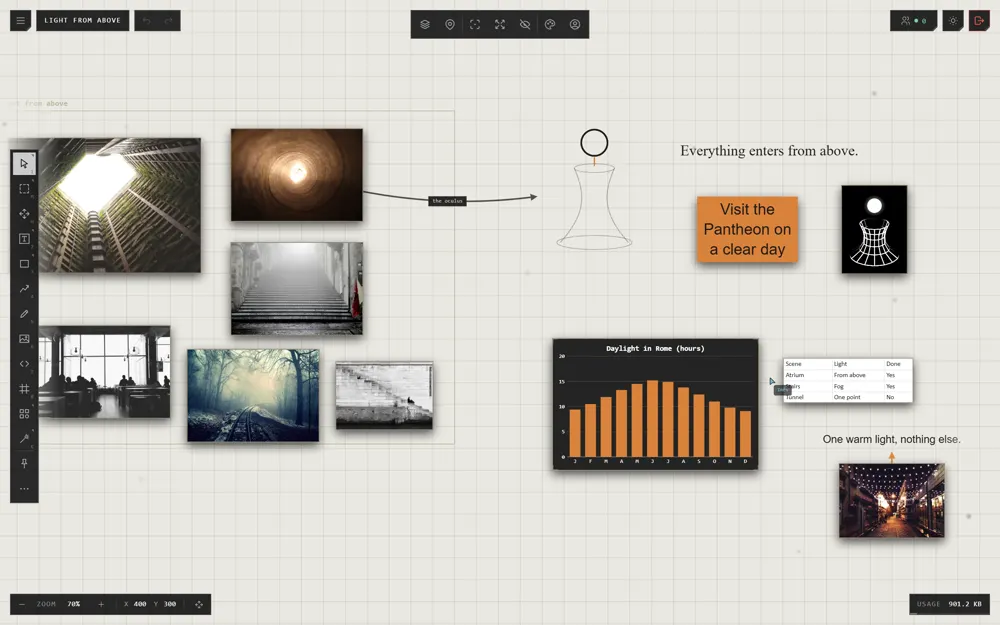
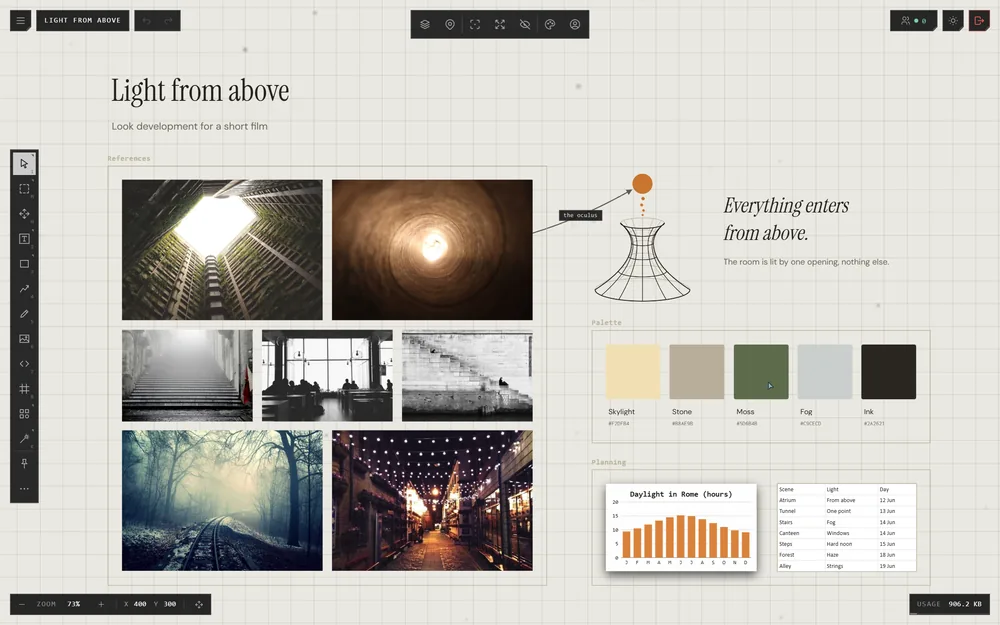
Landing page: a place for the film; the example atrium in the app's own themes
- The film gets the second section: a bracketed 16:9 window that says it is
  in production until FILM_SRC is set, then plays it.
- The example atrium is rebuilt as look development for a short film and
  photographed in Markerboard (light page) and Abyss (dark page). Close-ups
  are staged with their subject alone; the alt text is new in all 11 languages.
- Sections take their refs by name, so adding one cannot shift the others.

diff --git a/src/components/LandingPage.tsx b/src/components/LandingPage.tsx
@@ -148,6 +148,12 @@ const TRACE_CELLS: { id: string; span: string; picture?: boolean; video?: boolea
   { id: 'links', span: '' },
 ]
 
+// The film about the place, once it's made: where it's served from (any https
+// address: public/_headers allows media from one) and the still shown before
+// it plays. Until then, its window says it's on its way.
+const FILM_SRC: string = ''
+const FILM_POSTER: string = ''
+
 const TOOLS = ['move', 'arrange', 'connect', 'together', 'style', 'keep'] as const
 
 // The sticky bar's height (h-14). Both the jump and the scroll-spy measure
@@ -378,11 +384,12 @@ function TopNav({ items, activeSection, onJump, onDonate }: {
 }
 
 // The running order, and the order the page is written in. Index is identity
-// here: it ties an entry to its ref in sectionRefs, so these must move
-// together. Anything jumping to a section by name goes through sectionIndex().
+// here: it ties an entry to its ref in sectionRefs, so each section takes its
+// ref by name, through sectionIndex(), as does anything jumping to one.
 // `desktop` is the one a route names (/desktop): its id stays.
 const sections = [
   { id: 'hero', title: 'The Digital Atrium' },
+  { id: 'film', title: 'The film' },
   { id: 'inside', title: 'Inside an atrium' },
   { id: 'traces', title: 'Traces' },
   { id: 'tools', title: 'What you can do' },
@@ -605,7 +612,7 @@ export default function LandingPage({ onGetStarted, isAuthenticated, section }: 
       <main id="landing-main" tabIndex={-1} className="outline-none">
         {/* The hall: the portal, lit, hanging over the name. */}
         <section
-          ref={el => { sectionRefs.current[0] = el }}
+          ref={el => { sectionRefs.current[sectionIndex('hero')] = el }}
           className="relative flex flex-col items-center px-5 sm:px-10 lg:px-16 pb-14 overflow-hidden"
           style={{ minHeight: 'calc(100dvh - 3.5rem)' }}
         >
@@ -662,8 +669,29 @@ export default function LandingPage({ onGetStarted, isAuthenticated, section }: 
             the rest. */}
         <TraceTicker />
 
+        {/* The film: the window it plays in, waiting for it until it's made. */}
+        <section ref={el => { sectionRefs.current[sectionIndex('film')] = el }} className={sectionClass}>
+          <div className="max-w-[1300px] mx-auto" data-reveal>
+            <SectionTitle>{t('landing.film.title')}</SectionTitle>
+            <div className="relative">
+              <Brackets inset="-0.75rem" />
+              <div className="landing-window relative aspect-video border border-nier-border/30 overflow-hidden">
+                {FILM_SRC ? (
+                  <video src={FILM_SRC} poster={FILM_POSTER || undefined} controls preload="none" playsInline aria-label={t('landing.film.title')} className="absolute inset-0 w-full h-full bg-black" />
+                ) : (
+                  <div className="absolute inset-0 flex flex-col items-center justify-center gap-6 sm:gap-8 px-6 text-center">
+                    <span aria-hidden="true" className="landing-orb w-4 h-4 sm:w-5 sm:h-5 rounded-full" />
+                    <p className="text-[11px] sm:text-xs tracking-[0.35em] uppercase text-nier-strong">{t('landing.film.soon')}</p>
+                    <p className="max-w-[30rem] text-sm sm:text-base font-light leading-relaxed text-nier-bg/75 text-pretty">{t('landing.film.body')}</p>
+                  </div>
+                )}
+              </div>
+            </div>
+          </div>
+        </section>
+
         {/* Inside: an atrium as it is, photographed in the app. */}
-        <section ref={el => { sectionRefs.current[1] = el }} className={sectionClass}>
+        <section ref={el => { sectionRefs.current[sectionIndex('inside')] = el }} className={sectionClass}>
           <div className="max-w-[1300px] mx-auto" data-reveal>
             <SectionTitle>{t('landing.inside.title')}</SectionTitle>
             <p className="text-nier-bg/80 text-lg md:text-xl font-light leading-relaxed max-w-[40rem] mb-12 md:mb-16 text-pretty">{t('landing.inside.body')}</p>
@@ -687,7 +715,7 @@ export default function LandingPage({ onGetStarted, isAuthenticated, section }: 
         </section>
 
         {/* What can be brought in. */}
-        <section ref={el => { sectionRefs.current[2] = el }} className={sectionClass}>
+        <section ref={el => { sectionRefs.current[sectionIndex('traces')] = el }} className={sectionClass}>
           <div className="max-w-[1300px] mx-auto" data-reveal>
             <SectionTitle>{t('landing.traces.title')}</SectionTitle>
             <div className="landing-bento grid grid-cols-1 sm:grid-cols-2 lg:grid-cols-4 gap-px">
@@ -715,7 +743,7 @@ export default function LandingPage({ onGetStarted, isAuthenticated, section }: 
         </section>
 
         {/* What can be done there, and the keys for it. */}
-        <section ref={el => { sectionRefs.current[3] = el }} className={sectionClass}>
+        <section ref={el => { sectionRefs.current[sectionIndex('tools')] = el }} className={sectionClass}>
           <div className="max-w-[1300px] mx-auto grid lg:grid-cols-[minmax(0,5fr)_minmax(0,7fr)] gap-12 lg:gap-20" data-reveal>
             <div className="lg:sticky lg:top-28 self-start">
               <SectionTitle>{t('landing.tools.title')}</SectionTitle>
@@ -743,7 +771,7 @@ export default function LandingPage({ onGetStarted, isAuthenticated, section }: 
         {/* Two ways in: the web, and your computer. The desktop app has no
             need to be told about itself. */}
         {!isDesktop && (
-          <section ref={el => { sectionRefs.current[4] = el }} className={sectionClass}>
+          <section ref={el => { sectionRefs.current[sectionIndex('desktop')] = el }} className={sectionClass}>
             <div className="max-w-[1300px] mx-auto" data-reveal>
               <SectionTitle>{t('landing.ways.title')}</SectionTitle>
               <div className="landing-bento grid md:grid-cols-2 gap-px">
@@ -770,7 +798,7 @@ export default function LandingPage({ onGetStarted, isAuthenticated, section }: 
         )}
 
         {/* Who made it. */}
-        <section ref={el => { sectionRefs.current[5] = el }} className={sectionClass}>
+        <section ref={el => { sectionRefs.current[sectionIndex('creator')] = el }} className={sectionClass}>
           <div className="max-w-[1150px] mx-auto grid md:grid-cols-[minmax(0,5fr)_minmax(0,7fr)] gap-12 md:gap-16 items-center" data-reveal>
             <figure className="relative max-w-[440px] w-full mx-auto md:mx-0">
               <Brackets />
@@ -799,7 +827,7 @@ export default function LandingPage({ onGetStarted, isAuthenticated, section }: 
         </section>
 
         {/* What keeps it going. */}
-        <section ref={el => { sectionRefs.current[6] = el }} className={sectionClass}>
+        <section ref={el => { sectionRefs.current[sectionIndex('support')] = el }} className={sectionClass}>
           <div className="max-w-[1000px] mx-auto" data-reveal>
             <SectionTitle center>{t('landing.support.title')}</SectionTitle>
             <div className="grid md:grid-cols-2 gap-10 md:gap-14 items-center">

diff --git a/src/locales/ru.ts b/src/locales/ru.ts
@@ -1406,9 +1406,13 @@ const ru: Catalogue = {
   'landing.nav.inside': "Внутри",
   'landing.nav.traces': "Traces",
   'landing.nav.tools': "Что можно делать",
+  'landing.nav.film': "Фильм",
+  'landing.film.title': "Фильм",
+  'landing.film.soon': "В производстве",
+  'landing.film.body': "Мы снимаем короткий фильм о Digital Atrium. Когда он будет готов, его можно будет посмотреть здесь.",
   'landing.inside.title': "Внутри атриума",
   'landing.inside.body': "Всё, что вы приносите, становится trace в любом месте сетки. Связывайте их, группируйте, и комната растёт вместе с вашими идеями.",
-  'landing.inside.alt': "Атриум в приложении: рамка с фотографиями о свете, набросок, заметки, играющее видео, график светового дня и небольшая таблица, связанные нитями, а рядом с графиком курсор другого человека.",
+  'landing.inside.alt': "Атриум в приложении, оформленный как разработка визуального стиля короткометражного фильма: рамка с фотографиями о свете, набросок шара над каркасным сосудом, связанный с ними нитью, заметка, цветовая палитра, график светового дня и список сцен, а на палитре курсор другого человека.",
   'landing.traces.title': "Приносите что угодно",
   'landing.traces.pictures': "Изображения",
   'landing.traces.picturesDesc': "С компьютера или прямо из интернета. GIF продолжают двигаться.",

diff --git a/src/locales/ja.ts b/src/locales/ja.ts
@@ -1482,9 +1482,13 @@ const ja: Catalogue = {
   'landing.nav.inside': "中へ",
   'landing.nav.traces': "トレース",
   'landing.nav.tools': "できること",
+  'landing.nav.film': "映像",
+  'landing.film.title': "映像",
+  'landing.film.soon': "制作中",
+  'landing.film.body': "Digital Atrium の短編映像を制作しています。完成したら、ここで再生されます。",
   'landing.inside.title': "アトリウムの中",
   'landing.inside.body': "持ち込んだものはすべてトレースになり、グリッドのどこにでも置けます。つないで、まとめれば、部屋はあなたのアイデアとともに広がります。",
-  'landing.inside.alt': "アプリ内のアトリウム：光をテーマにした写真のフレーム、スケッチ、メモ、再生中の動画、日照時間のグラフと小さな表が糸でつながり、グラフのそばに別の人のカーソルがあります。",
+  'landing.inside.alt': "アプリ内のアトリウム。短編映画のルック開発として構成されています：光をテーマにした写真のフレーム、糸で写真とつながったワイヤーフレームの器と光球のスケッチ、メモ、カラーパレット、日照時間のグラフ、撮影リスト。パレットの上には別の人のカーソルがあります。",
   'landing.traces.title': "何でも持ち込める",
   'landing.traces.pictures': "画像",
   'landing.traces.picturesDesc': "パソコンから、またはウェブから直接。GIF は動き続けます。",

diff --git a/src/locales/fr.ts b/src/locales/fr.ts
@@ -1402,9 +1402,13 @@ const fr: Catalogue = {
   'landing.nav.inside': "Dedans",
   'landing.nav.traces': "Traces",
   'landing.nav.tools': "Ce que vous pouvez faire",
+  'landing.nav.film': "Le film",
+  'landing.film.title': "Le film",
+  'landing.film.soon': "En production",
+  'landing.film.body': "Un court métrage sur le Digital Atrium est en cours de réalisation. Une fois terminé, il sera diffusé ici.",
   'landing.inside.title': "Dans un atrium",
   'landing.inside.body': "Tout ce que vous apportez devient une trace, n’importe où sur la grille. Reliez-les, groupez-les, et la salle grandit avec vos idées.",
-  'landing.inside.alt': "Un atrium dans l’app : un cadre de photographies sur la lumière, un croquis, des notes, une vidéo en lecture, un graphique des heures de jour et un petit tableau, reliés par des fils, avec le curseur d’une autre personne près du graphique.",
+  'landing.inside.alt': "Un atrium dans l’app, organisé comme la recherche visuelle d’un court métrage : un cadre de photographies sur la lumière, le croquis d’un orbe au-dessus d’un vase en fil de fer relié à elles par un fil, une note, une palette de couleurs, un graphique des heures de jour et une liste de plans, avec le curseur d’une autre personne sur la palette.",
   'landing.traces.title': "Apportez n’importe quoi",
   'landing.traces.pictures': "Images",
   'landing.traces.picturesDesc': "Depuis votre ordinateur ou directement du web. Les GIF continuent de bouger.",

diff --git a/src/locales/ko.ts b/src/locales/ko.ts
@@ -1486,9 +1486,13 @@ const ko: Catalogue = {
   'landing.nav.inside': "안으로",
   'landing.nav.traces': "트레이스",
   'landing.nav.tools': "할 수 있는 것",
+  'landing.nav.film': "영상",
+  'landing.film.title': "영상",
+  'landing.film.soon': "제작 중",
+  'landing.film.body': "Digital Atrium에 관한 단편 영상을 만들고 있습니다. 완성되면 여기에서 재생됩니다.",
   'landing.inside.title': "아트리움 안",
   'landing.inside.body': "가져온 것은 모두 트레이스가 되어 격자 어디에나 놓입니다. 연결하고 묶으면, 방은 당신의 생각과 함께 자랍니다.",
-  'landing.inside.alt': "앱 속의 아트리움: 빛을 주제로 한 사진 프레임, 스케치, 메모, 재생 중인 영상, 일조 시간 차트와 작은 표가 실로 이어져 있고, 차트 옆에 다른 사람의 커서가 있습니다.",
+  'landing.inside.alt': "앱 속의 아트리움, 단편 영화의 룩 개발 보드로 꾸며져 있습니다: 빛을 주제로 한 사진 프레임, 실로 사진과 이어진 와이어프레임 그릇과 구체의 스케치, 메모, 색상 팔레트, 일조 시간 차트와 촬영 목록이 있고, 팔레트 위에 다른 사람의 커서가 있습니다.",
   'landing.traces.title': "무엇이든 가져오세요",
   'landing.traces.pictures': "이미지",
   'landing.traces.picturesDesc': "컴퓨터에서, 또는 웹에서 바로. GIF는 계속 움직여요.",

diff --git a/src/locales/de.ts b/src/locales/de.ts
@@ -1403,9 +1403,13 @@ const de: Catalogue = {
   'landing.nav.inside': "Innen",
   'landing.nav.traces': "Traces",
   'landing.nav.tools': "Was du tun kannst",
+  'landing.nav.film': "Der Film",
+  'landing.film.title': "Der Film",
+  'landing.film.soon': "In Produktion",
+  'landing.film.body': "Ein Kurzfilm über das Digital Atrium entsteht gerade. Sobald er fertig ist, läuft er hier.",
   'landing.inside.title': "In einem Atrium",
   'landing.inside.body': "Alles, was du hineinbringst, wird zu einem Trace, irgendwo auf dem Raster. Verbinde sie, gruppiere sie, und der Raum wächst mit deinen Ideen.",
-  'landing.inside.alt': "Ein Atrium in der App: ein Rahmen mit Fotos über Licht, eine Skizze, Notizen, ein laufendes Video, ein Diagramm der Tageslichtstunden und eine kleine Tabelle, verbunden durch Fäden, daneben der Cursor einer anderen Person.",
+  'landing.inside.alt': "Ein Atrium in der App, angelegt als Look-Entwicklung für einen Kurzfilm: ein Rahmen mit Fotos über Licht, die Skizze einer Kugel über einem Drahtgitter-Gefäß, durch einen Faden mit ihnen verbunden, eine Notiz, eine Farbpalette, ein Diagramm der Tageslichtstunden und eine Drehliste, dazu der Cursor einer anderen Person auf der Palette.",
   'landing.traces.title': "Bring alles mit",
   'landing.traces.pictures': "Bilder",
   'landing.traces.picturesDesc': "Von deinem Computer oder direkt aus dem Web. GIFs bewegen sich weiter.",

diff --git a/src/locales/es.ts b/src/locales/es.ts
@@ -1400,9 +1400,13 @@ const es: Catalogue = {
   'landing.nav.inside': "Dentro",
   'landing.nav.traces': "Traces",
   'landing.nav.tools': "Qué puedes hacer",
+  'landing.nav.film': "La película",
+  'landing.film.title': "La película",
+  'landing.film.soon': "En producción",
+  'landing.film.body': "Se está rodando un cortometraje sobre el Digital Atrium. Cuando esté terminado, podrás verlo aquí.",
   'landing.inside.title': "Dentro de un atrio",
   'landing.inside.body': "Todo lo que traes se convierte en un trace, en cualquier lugar de la cuadrícula. Conéctalos, agrúpalos, y la sala crece con tus ideas.",
-  'landing.inside.alt': "Un atrio en la app: un marco de fotografías sobre la luz, un boceto, notas, un vídeo en marcha, un gráfico de horas de luz y una pequeña tabla, unidos por hilos, con el cursor de otra persona junto al gráfico.",
+  'landing.inside.alt': "Un atrio en la app, montado como desarrollo visual de un cortometraje: un marco de fotografías sobre la luz, el boceto de una esfera sobre un recipiente de alambre unido a ellas por un hilo, una nota, una paleta de colores, un gráfico de horas de luz y un plan de rodaje, con el cursor de otra persona sobre la paleta.",
   'landing.traces.title': "Trae cualquier cosa",
   'landing.traces.pictures': "Imágenes",
   'landing.traces.picturesDesc': "Desde tu ordenador o directamente de la web. Los GIF siguen moviéndose.",

diff --git a/src/locales/it.ts b/src/locales/it.ts
@@ -1404,9 +1404,13 @@ const it: Catalogue = {
   'landing.nav.inside': "Dentro",
   'landing.nav.traces': "Traces",
   'landing.nav.tools': "Cosa puoi fare",
+  'landing.nav.film': "Il film",
+  'landing.film.title': "Il film",
+  'landing.film.soon': "In produzione",
+  'landing.film.body': "Un cortometraggio sul Digital Atrium è in lavorazione. Quando sarà pronto, lo vedrai qui.",
   'landing.inside.title': "Dentro un atrio",
   'landing.inside.body': "Tutto ciò che porti diventa una trace, ovunque sulla griglia. Collegale, raggruppale, e la stanza cresce con le tue idee.",
-  'landing.inside.alt': "Un atrio nell’app: una cornice di fotografie sulla luce, uno schizzo, note, un video in riproduzione, un grafico delle ore di luce e una piccola tabella, uniti da fili, con il cursore di un’altra persona accanto al grafico.",
+  'landing.inside.alt': "Un atrio nell’app, impostato come ricerca visiva per un cortometraggio: una cornice di fotografie sulla luce, lo schizzo di una sfera sopra un vaso in wireframe unito a esse da un filo, una nota, una tavolozza di colori, un grafico delle ore di luce e un piano delle riprese, con il cursore di un’altra persona sulla tavolozza.",
   'landing.traces.title': "Porta qualsiasi cosa",
   'landing.traces.pictures': "Immagini",
   'landing.traces.picturesDesc': "Dal tuo computer o direttamente dal web. Le GIF continuano a muoversi.",

diff --git a/src/locales/pt-BR.ts b/src/locales/pt-BR.ts
@@ -1404,9 +1404,13 @@ const ptBR: Catalogue = {
   'landing.nav.inside': "Por dentro",
   'landing.nav.traces': "Traces",
   'landing.nav.tools': "O que você pode fazer",
+  'landing.nav.film': "O filme",
+  'landing.film.title': "O filme",
+  'landing.film.soon': "Em produção",
+  'landing.film.body': "Um curta-metragem sobre o Digital Atrium está sendo feito. Quando estiver pronto, ele vai passar aqui.",
   'landing.inside.title': "Dentro de um átrio",
   'landing.inside.body': "Tudo o que você traz vira um trace, em qualquer lugar da grade. Conecte, agrupe, e a sala cresce com as suas ideias.",
-  'landing.inside.alt': "Um átrio no app: uma moldura de fotografias sobre luz, um esboço, notas, um vídeo tocando, um gráfico de horas de luz e uma pequena planilha, ligados por fios, com o cursor de outra pessoa ao lado do gráfico.",
+  'landing.inside.alt': "Um átrio no app, montado como desenvolvimento visual de um curta-metragem: uma moldura de fotografias sobre luz, o esboço de uma esfera sobre um vaso aramado ligado a elas por um fio, uma nota, uma paleta de cores, um gráfico de horas de luz e uma lista de planos, com o cursor de outra pessoa sobre a paleta.",
   'landing.traces.title': "Traga qualquer coisa",
   'landing.traces.pictures': "Imagens",
   'landing.traces.picturesDesc': "Do seu computador ou direto da web. GIFs continuam se mexendo.",

diff --git a/src/locales/pt-PT.ts b/src/locales/pt-PT.ts
@@ -1407,9 +1407,13 @@ const ptPT: Catalogue = {
   'landing.nav.inside': "Por dentro",
   'landing.nav.traces': "Traces",
   'landing.nav.tools': "O que pode fazer",
+  'landing.nav.film': "O filme",
+  'landing.film.title': "O filme",
+  'landing.film.soon': "Em produção",
+  'landing.film.body': "Está a ser feita uma curta-metragem sobre o Digital Atrium. Quando estiver pronta, passa aqui.",
   'landing.inside.title': "Dentro de um átrio",
   'landing.inside.body': "Tudo o que traz torna-se um trace, em qualquer lugar da grelha. Ligue-os, agrupe-os, e a sala cresce com as suas ideias.",
-  'landing.inside.alt': "Um átrio na app: uma moldura de fotografias sobre luz, um esboço, notas, um vídeo a reproduzir, um gráfico de horas de luz e uma pequena folha, ligados por fios, com o cursor de outra pessoa junto ao gráfico.",
+  'landing.inside.alt': "Um átrio na app, organizado como desenvolvimento visual de uma curta-metragem: uma moldura de fotografias sobre luz, o esboço de uma esfera sobre um vaso em arame ligado a elas por um fio, uma nota, uma paleta de cores, um gráfico de horas de luz e uma lista de planos, com o cursor de outra pessoa sobre a paleta.",
   'landing.traces.title': "Traga qualquer coisa",
   'landing.traces.pictures': "Imagens",
   'landing.traces.picturesDesc': "Do seu computador ou diretamente da web. Os GIF continuam a mexer.",

diff --git a/src/locales/zh.ts b/src/locales/zh.ts
@@ -1485,9 +1485,13 @@ const zh: Catalogue = {
   'landing.nav.inside': "内部",
   'landing.nav.traces': "Trace",
   'landing.nav.tools': "你能做什么",
+  'landing.nav.film': "影片",
+  'landing.film.title': "影片",
+  'landing.film.soon': "制作中",
+  'landing.film.body': "一部关于 Digital Atrium 的短片正在制作中。完成后会在这里播放。",
   'landing.inside.title': "中庭之内",
   'landing.inside.body': "你带进来的一切都会成为 trace，放在网格的任何位置。连接它们、分组它们，空间会随你的想法一起生长。",
-  'landing.inside.alt': "应用中的一个中庭：一组关于光的照片框、一幅草图、笔记、正在播放的视频、一张日照时长图表和一个小表格，由连线相连，图表旁是另一位访客的光标。",
+  'landing.inside.alt': "应用中的一个中庭，布置成一部短片的视觉开发板：一组关于光的照片框、一幅光球悬于线框容器之上的草图（由连线与照片相连）、一段笔记、一组调色板、一张日照时长图表和一份拍摄清单，调色板上是另一位访客的光标。",
   'landing.traces.title': "带来任何东西",
   'landing.traces.pictures': "图片",
   'landing.traces.picturesDesc': "来自你的电脑或直接来自网络。GIF 会继续动。",

diff --git a/src/locales/en.ts b/src/locales/en.ts
@@ -1430,9 +1430,13 @@ export const en = {
   'landing.nav.inside': "Inside",
   'landing.nav.traces': "Traces",
   'landing.nav.tools': "What you can do",
+  'landing.nav.film': "The film",
+  'landing.film.title': "The film",
+  'landing.film.soon': "In production",
+  'landing.film.body': "A short film about the Digital Atrium is being made. It will play here once it’s finished.",
   'landing.inside.title': "Inside an atrium",
   'landing.inside.body': "Whatever you bring in becomes a trace, set anywhere on the grid. Connect them, group them, and the room grows with your ideas.",
-  'landing.inside.alt': "An atrium in the app: a frame of photographs about light, a sketch, notes, a playing video, a chart of daylight hours and a small sheet, joined by threads, with another visitor’s cursor beside the chart.",
+  'landing.inside.alt': "An atrium in the app, set out as look development for a short film: a frame of photographs about light, a sketch of an orb above a wireframe vessel joined to them by a thread, a note, a colour palette, a chart of daylight hours and a shot list, with another visitor’s cursor on the palette.",
   'landing.traces.title': "Bring in anything",
   'landing.traces.pictures': "Pictures",
   'landing.traces.picturesDesc': "From your computer or straight from the web. GIFs keep moving.",
